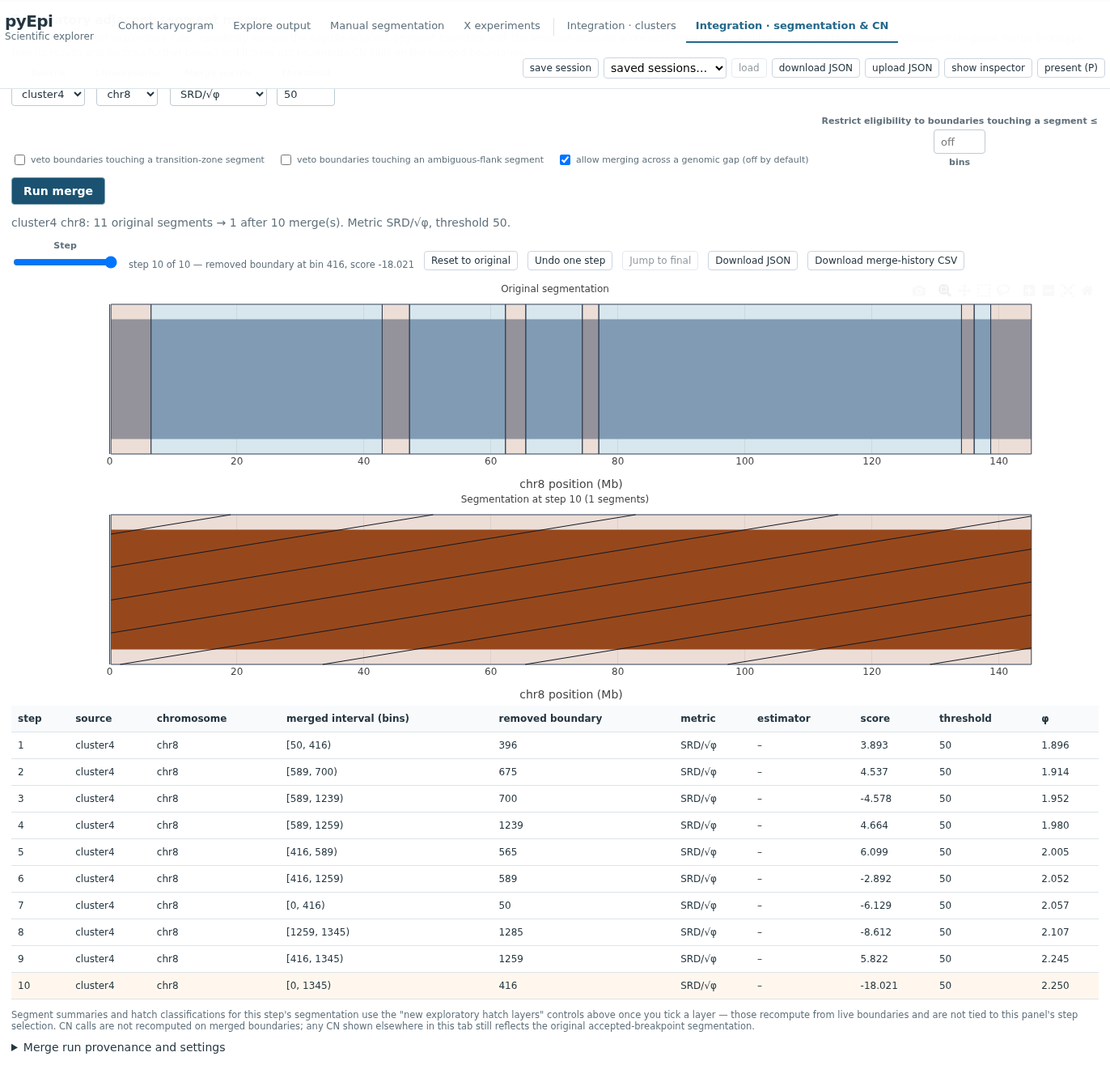
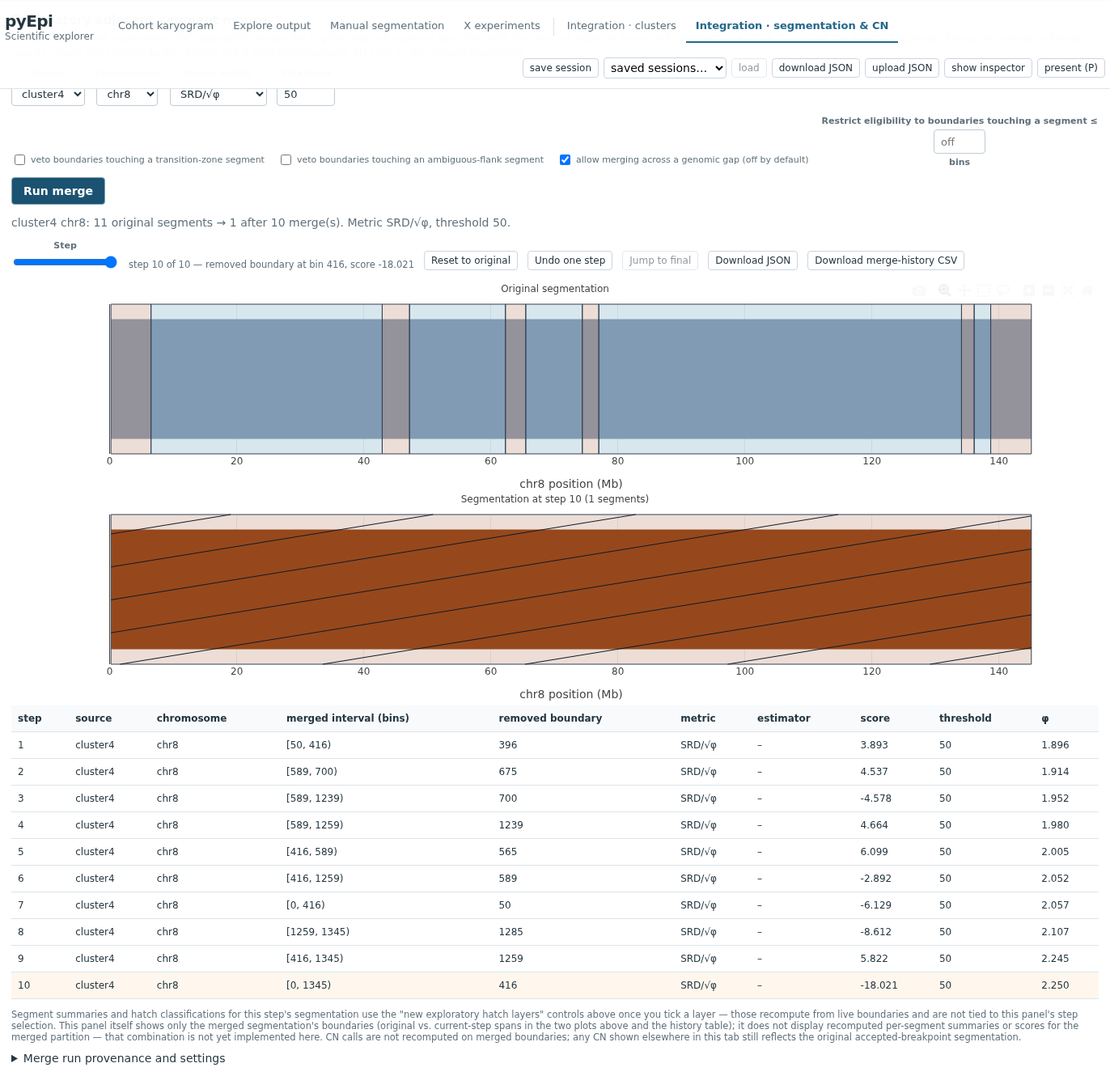
fix(hatch-merge): final whole-branch review fix wave
Addresses all 6 Important findings and the Minor bundle from the closing
whole-branch review of the exploratory hatching + adjacent-segment merge
feature:

- HatchMergeView.tsx's summary line, history table and CSV export now read
  result.settings instead of the live metric/estimator/threshold controls,
  so a changed-but-not-rerun control can no longer make the displayed/
  exported settings disagree with the scores actually shown.
- hatch_merge.py's run_merge now computes pooled phi whenever veto_ambiguous
  is set, not only when metric != 'delta_log2fc' -- veto_ambiguous was a
  silent no-op under that metric before. Added a regression test.
- The three new hatch layers in IntegrationSegmentationView.tsx now carry a
  hover tooltip (bin range, per-layer left/right scores, which
  classification(s) fired) instead of only drawing hatch shapes.
- hatchShapes gained a '\' style (single backward diagonal) so "merge
  proposal" (x) and "ambiguous flank preference" (\) are visually
  distinguishable, matching the task spec's /, \, x suggestion.
- HatchMergeView.tsx and HANDOFF.md now explicitly document that recomputed
  per-segment summaries/scores for the merged segmentation are not shown
  (boundaries only) -- a genuine plan gap, not an intentional scope cut.
- browser_hatch_merge_walkthrough.cjs now exercises a hatch-layer metric
  dropdown (not just the three checkboxes) and records one merge run at the
[…]

diff --git a/web/src/components/IntegrationSegmentationView.tsx b/web/src/components/IntegrationSegmentationView.tsx
@@ -145,27 +145,41 @@ export default function IntegrationSegmentationView() {
       const hs = ig.hatchScores[`${src}|${seg.chrom}`]
       if (hs && (hatchLayers.transition.on || hatchLayers.proposal.on || hatchLayers.ambiguous.on)) for (const row of hs.rows) {
         const x0 = mb[row.start], x1 = row.end < chromMeta.n ? mb[row.end] : bins[2 * (chromMeta.offset + chromMeta.n - 1) + 1] / MB
-        const styles: ('none' | '/' | 'x')[] = []
+        const styles: ('none' | '/' | '\\' | 'x')[] = []
+        const fired: string[] = []
+        const scoreLines: string[] = []
         if (hatchLayers.transition.on) {
           const l = scoreForMetric(row, 'left', hatchLayers.transition.metric, hatchLayers.transition.estimator)
           const r = scoreForMetric(row, 'right', hatchLayers.transition.metric, hatchLayers.transition.estimator)
-          if (classifyTransition(l, r)) styles.push('/')
+          const isTransition = classifyTransition(l, r)
+          const mname = hatchLayers.transition.metric === 'delta_log2fc' ? `delta log2FC (${hatchLayers.transition.estimator})` : hatchLayers.transition.metric
+          if (isTransition) { styles.push('/'); fired.push('transition zone (/)') }
+          scoreLines.push(`transition · ${mname} L/R ${fmt(l, 3)} / ${fmt(r, 3)}${isTransition ? ' — opposite signs' : ''}`)
         }
         if (hatchLayers.proposal.on) {
           const l = scoreForMetric(row, 'left', hatchLayers.proposal.metric, hatchLayers.proposal.estimator)
           const r = scoreForMetric(row, 'right', hatchLayers.proposal.metric, hatchLayers.proposal.estimator)
           const cls = classifyMergeProposal(l, r, hatchLayers.proposal.threshold)
-          if (cls.weakerSide) styles.push('x')
+          const mname = hatchLayers.proposal.metric === 'delta_log2fc' ? `delta log2FC (${hatchLayers.proposal.estimator})` : hatchLayers.proposal.metric
+          if (cls.weakerSide) { styles.push('x'); fired.push(`merge proposal (×), eligible side: ${cls.weakerSide}`) }
+          scoreLines.push(`merge proposal · ${mname} L/R ${fmt(l, 3)} / ${fmt(r, 3)} vs threshold ${hatchLayers.proposal.threshold} — eligible ${cls.eligibleLeft ? 'L' : ''}${cls.eligibleLeft && cls.eligibleRight ? '+' : ''}${cls.eligibleRight ? 'R' : ''}${!cls.eligibleLeft && !cls.eligibleRight ? 'none' : ''}${cls.weakerSide ? `, weaker side ${cls.weakerSide}` : ''}`)
         }
         if (hatchLayers.ambiguous.on) {
           const srdL = scoreForMetric(row, 'left', 'srd_phi', hatchLayers.ambiguous.estimator)
           const srdR = scoreForMetric(row, 'right', 'srd_phi', hatchLayers.ambiguous.estimator)
           const fcL = scoreForMetric(row, 'left', 'delta_log2fc', hatchLayers.ambiguous.estimator)
           const fcR = scoreForMetric(row, 'right', 'delta_log2fc', hatchLayers.ambiguous.estimator)
-          if (classifyAmbiguous(srdL, srdR, fcL, fcR) === 'ambiguous') styles.push('x')
+          const cls = classifyAmbiguous(srdL, srdR, fcL, fcR)
+          if (cls === 'ambiguous') { styles.push('\\'); fired.push('ambiguous flank preference (\\)') }
+          scoreLines.push(`ambiguous check · SRD/√φ L/R ${fmt(srdL, 3)} / ${fmt(srdR, 3)} vs delta log2FC (${hatchLayers.ambiguous.estimator}) L/R ${fmt(fcL, 3)} / ${fmt(fcR, 3)} → ${cls}`)
         }
         for (const style of styles) shapes.push(...hatchShapes(x0, x1, yref, style, 'rgba(21,94,117,0.6)'))
-        if (row.gap_left || row.gap_right) shapes.push({ type: 'line', xref: 'x', yref: `${yref} domain`, x0: row.gap_left ? x0 : x1, x1: row.gap_left ? x0 : x1, y0: 0, y1: 1, line: { color: '#b91c1c', width: 2, dash: 'dot' }, opacity: 0.7 })
+        if (row.gap_left) shapes.push({ type: 'line', xref: 'x', yref: `${yref} domain`, x0, x1: x0, y0: 0, y1: 1, line: { color: '#b91c1c', width: 2, dash: 'dot' }, opacity: 0.7 })
+        if (row.gap_right) shapes.push({ type: 'line', xref: 'x', yref: `${yref} domain`, x0: x1, x1, y0: 0, y1: 1, line: { color: '#b91c1c', width: 2, dash: 'dot' }, opacity: 0.7 })
+        // hover carrier: why a segment did (or didn't) get hatched by the new layers — only added
+        // when at least one layer actually fired, so it doesn't clutter every segment in view.
+        if (fired.length) data.push({ type: 'scatter', mode: 'markers', x: [(x0 + x1) / 2], y: [seg.basis === 'raw' ? 0 : yr[0] + 0.2], marker: { size: 7, color: 'rgba(21,94,117,0.35)', line: { color: '#155e75', width: 1 }, symbol: 'diamond' }, xaxis: 'x', yaxis: yref, showlegend: false, name: 'new hatch layer',
+          hovertemplate: `<b>${src} ${seg.chrom} · new exploratory hatch layer(s)</b><br>bins [${row.start}, ${row.end})<br>fired: ${fired.join(', ')}<br>${scoreLines.join('<br>')}${row.gap_left || row.gap_right ? `<br>genomic gap: ${row.gap_left ? 'left ' : ''}${row.gap_right ? 'right' : ''}` : ''}<extra></extra>` })
       }
       // candidate audit
       if (seg.labels.candidates) {
@@ -291,7 +305,7 @@ export default function IntegrationSegmentationView() {
           <select aria-label="Merge-proposal metric" value={hatchLayers.proposal.metric} onChange={(e) => ig.setHatchLayers({ proposal: { ...hatchLayers.proposal, metric: e.target.value as HatchMetric } })}><option value="srd">SRD</option><option value="srd_phi">SRD/√φ</option><option value="delta_log2fc">delta log2FC</option></select>
           {hatchLayers.proposal.metric === 'delta_log2fc' && <select aria-label="Merge-proposal estimator" value={hatchLayers.proposal.estimator} onChange={(e) => ig.setHatchLayers({ proposal: { ...hatchLayers.proposal, estimator: e.target.value as Estimator } })}><option value="mean">mean</option><option value="median">median</option><option value="iqr_mean">two-sided IQR mean</option></select>}
           <label>threshold<input aria-label="Merge-proposal threshold" type="number" step={0.1} value={hatchLayers.proposal.threshold} onChange={(e) => ig.setHatchLayers({ proposal: { ...hatchLayers.proposal, threshold: +e.target.value } })} style={{ width: 64 }} /></label>
-          <label className="chk-inline"><input type="checkbox" checked={hatchLayers.ambiguous.on} onChange={(e) => ig.setHatchLayers({ ambiguous: { ...hatchLayers.ambiguous, on: e.target.checked } })} />ambiguous flank preference (×)</label>
+          <label className="chk-inline"><input type="checkbox" checked={hatchLayers.ambiguous.on} onChange={(e) => ig.setHatchLayers({ ambiguous: { ...hatchLayers.ambiguous, on: e.target.checked } })} />ambiguous flank preference (\)</label>
           <select aria-label="Ambiguous estimator" value={hatchLayers.ambiguous.estimator} onChange={(e) => ig.setHatchLayers({ ambiguous: { ...hatchLayers.ambiguous, estimator: e.target.value as Estimator } })}><option value="mean">mean</option><option value="median">median</option><option value="iqr_mean">two-sided IQR mean</option></select>
           {ig.hatchScoresError && <span className="notice small">{ig.hatchScoresError}</span>}
         </div>
@@ -305,8 +319,8 @@ export default function IntegrationSegmentationView() {
           {seg.labels.consistency && !seg.labels.proposal && <span>hatch × weak SRD, / inconsistent flank, plain strong/consistent</span>}
           {hatchLayers.transition.on && <span>new: hatch / where left/right {hatchLayers.transition.metric === 'delta_log2fc' ? `delta log2FC (${hatchLayers.transition.estimator})` : hatchLayers.transition.metric} scores have opposite signs (descriptive, not a merge decision)</span>}
           {hatchLayers.proposal.on && <span>new: hatch × where at least one flank's |{hatchLayers.proposal.metric === 'delta_log2fc' ? `delta log2FC (${hatchLayers.proposal.estimator})` : hatchLayers.proposal.metric}| &lt; {hatchLayers.proposal.threshold}</span>}
-          {hatchLayers.ambiguous.on && <span>new: hatch × where the weaker SRD/√φ flank differs from the weaker delta log2FC ({hatchLayers.ambiguous.estimator}) flank</span>}
-          <span><i className="ln" style={{ borderColor: '#b91c1c' }} />dotted red = a genomic gap sits at that flank boundary</span>
+          {hatchLayers.ambiguous.on && <span>new: hatch \ where the weaker SRD/√φ flank differs from the weaker delta log2FC ({hatchLayers.ambiguous.estimator}) flank</span>}
+          {(hatchLayers.transition.on || hatchLayers.proposal.on || hatchLayers.ambiguous.on) && <span><i className="ln" style={{ borderColor: '#b91c1c' }} />dotted red = a genomic gap sits at that flank boundary</span>}
         </div>
         {trackFig ? <><Plot data={trackFig.data} layout={trackFig.layout} config={trackConfig} onClick={onTrackClick} onReady={el => { plotEl.current = el }} /><button className="btn-xs" onClick={() => plotEl.current && downloadPlot(plotEl.current, `tracks_${seg.chrom}`)}>PNG</button></> : <div className="muted small">{ig.pb ? 'select at least one cluster row' : 'loading pseudobulk profiles…'}</div>}
         {seg.selectedSegment && (() => { const s = ig.smallSegs.find((x) => x.key === seg.selectedSegment); if (!s) return null; const cc = consistencyClass(s, effectMetric, seg.srdRef); const bs = (meta.bootstrap || []).find((b: any) => b.source === s.source && b.chromosome === s.chrom && b.bin_start === s.s); return (

diff --git a/web/src/components/HatchMergeView.tsx b/web/src/components/HatchMergeView.tsx
@@ -45,6 +45,13 @@ export default function HatchMergeView() {
   const reset = () => setStepIdx(0)
   const undo = () => setStepIdx((i) => Math.max(0, i - 1))
   const step = result?.steps[stepIdx]
+  // Read the *displayed* run's settings from result.settings, not the live control
+  // state above: once a control changes after a run, the live state no longer
+  // describes the scores actually shown (see the `stale` notice) and must not be
+  // used for the summary/history/export of that still-displayed result.
+  const rMetric = (result?.settings.metric as HatchMetric | undefined) ?? metric
+  const rEstimator = (result?.settings.estimator as Estimator | undefined) ?? estimator
+  const rThreshold = (result?.settings.threshold as number | undefined) ?? threshold
 
   const layout = { height: 260, margin: { l: 60, r: 20, t: 30, b: 45 }, paper_bgcolor: '#fff', plot_bgcolor: '#fff', font: { family: 'system-ui', size: 12 }, hovermode: presentation ? false : 'closest' as const }
   const segmentTrace = (segs: { start: number; end: number }[], startBp: number[], endBp: number[], color: string, name: string) => ({
@@ -75,7 +82,7 @@ export default function HatchMergeView() {
     </div>
     {error && <p role="alert">{error}</p>}
     {result && step && <>
-      <p className={stale ? 'notice' : 'muted'} role="status">{stale ? 'Settings changed; showing the previous run. ' : ''}{result.source} {result.chrom}: {result.original.length} original segments → {result.final.length} after {result.steps.length - 1} merge(s). Metric {METRIC_NAMES[metric]}{metric === 'delta_log2fc' ? ` (${estimator})` : ''}, threshold {threshold}.</p>
+      <p className={stale ? 'notice' : 'muted'} role="status">{stale ? 'Settings changed; showing the previous run. ' : ''}{result.source} {result.chrom}: {result.original.length} original segments → {result.final.length} after {result.steps.length - 1} merge(s). Metric {METRIC_NAMES[rMetric]}{rMetric === 'delta_log2fc' ? ` (${rEstimator})` : ''}, threshold {rThreshold}.</p>
       <div className="controls-row">
         <label>Step<input aria-label="Merge step" type="range" min={0} max={result.steps.length - 1} value={stepIdx} onChange={(e) => setStepIdx(+e.target.value)} /></label>
         <span className="muted small">step {stepIdx} of {result.steps.length - 1}{step.removed_boundary !== null ? ` — removed boundary at bin ${step.removed_boundary}, score ${step.score?.toFixed(3)}` : ' — original segmentation'}</span>
@@ -85,7 +92,7 @@ export default function HatchMergeView() {
         <button className="btn-sm" onClick={() => download(JSON.stringify(result, null, 2), `hatch-merge-${result.chrom}-${result.source}.json`, 'application/json')}>Download JSON</button>
         <button className="btn-sm" onClick={() => {
           const rows = [['step', 'source', 'chromosome', 'merged_start', 'merged_end', 'removed_boundary', 'metric', 'estimator', 'score', 'threshold', 'phi'],
-            ...result.steps.filter((s) => s.removed_boundary !== null).map((s) => [s.step, result.source, result.chrom, s.merged_interval?.[0], s.merged_interval?.[1], s.removed_boundary, metric, metric === 'delta_log2fc' ? estimator : '', s.score, threshold, s.phi ?? ''])]
+            ...result.steps.filter((s) => s.removed_boundary !== null).map((s) => [s.step, result.source, result.chrom, s.merged_interval?.[0], s.merged_interval?.[1], s.removed_boundary, rMetric, rMetric === 'delta_log2fc' ? rEstimator : '', s.score, rThreshold, s.phi ?? ''])]
           download(rows.map((r) => r.join(',')).join('\n') + '\n', `hatch-merge-history-${result.chrom}-${result.source}.csv`, 'text/csv')
         }}>Download merge-history CSV</button>
       </div>
@@ -96,10 +103,10 @@ export default function HatchMergeView() {
       <div className="table-scroll"><table className="tbl"><thead><tr><th>step</th><th>source</th><th>chromosome</th><th>merged interval (bins)</th><th>removed boundary</th><th>metric</th><th>estimator</th><th>score</th><th>threshold</th><th>φ</th></tr></thead><tbody>
         {result.steps.filter((s) => s.removed_boundary !== null).map((s) => <tr key={s.step} className={s.step === stepIdx ? 'sel' : 'clickable'} onClick={() => setStepIdx(s.step)}>
           <td>{s.step}</td><td>{result.source}</td><td>{result.chrom}</td><td>[{s.merged_interval?.[0]}, {s.merged_interval?.[1]})</td><td>{s.removed_boundary}</td>
-          <td>{METRIC_NAMES[metric]}</td><td>{metric === 'delta_log2fc' ? estimator : '–'}</td><td>{s.score?.toFixed(3)}</td><td>{threshold}</td><td>{s.phi != null ? s.phi.toFixed(3) : '–'}</td>
+          <td>{METRIC_NAMES[rMetric]}</td><td>{rMetric === 'delta_log2fc' ? rEstimator : '–'}</td><td>{s.score?.toFixed(3)}</td><td>{rThreshold}</td><td>{s.phi != null ? s.phi.toFixed(3) : '–'}</td>
         </tr>)}
       </tbody></table></div>
-      <p className="small muted">Segment summaries and hatch classifications for this step's segmentation use the "new exploratory hatch layers" controls above once you tick a layer — those recompute from live boundaries and are not tied to this panel's step selection. CN calls are not recomputed on merged boundaries; any CN shown elsewhere in this tab still reflects the original accepted-breakpoint segmentation.</p>
+      <p className="small muted">Segment summaries and hatch classifications for this step's segmentation use the "new exploratory hatch layers" controls above once you tick a layer — those recompute from live boundaries and are not tied to this panel's step selection. This panel itself shows only the merged segmentation's boundaries (original vs. current-step spans in the two plots above and the history table); it does not display recomputed per-segment summaries or scores for the merged partition — that combination is not yet implemented here. CN calls are not recomputed on merged boundaries; any CN shown elsewhere in this tab still reflects the original accepted-breakpoint segmentation.</p>
       <details><summary>Merge run provenance and settings</summary><pre style={{ whiteSpace: 'pre-wrap', overflowWrap: 'anywhere' }}>{JSON.stringify({ settings: result.settings, provenance: result.provenance }, null, 2)}</pre></details>
     </>}
   </section>

diff --git a/web/src/integration.ts b/web/src/integration.ts
@@ -90,11 +90,11 @@ function unitDiag(step: number, back: boolean): { x0: number; y0: number; x1: nu
   }
   return out
 }
-/** Plotly `line` shapes hatching a rect (x0..x1 data units, y 0..1 of the given axis' domain): '/' single diagonal, 'x' crossed, 'none' nothing. */
-export function hatchShapes(x0: number, x1: number, yref: string, style: 'none' | '/' | 'x', color = 'rgba(17,24,39,0.55)'): any[] {
+/** Plotly `line` shapes hatching a rect (x0..x1 data units, y 0..1 of the given axis' domain): '/' single forward diagonal, '\' single backward diagonal, 'x' both crossed, 'none' nothing. */
+export function hatchShapes(x0: number, x1: number, yref: string, style: 'none' | '/' | '\\' | 'x', color = 'rgba(17,24,39,0.55)'): any[] {
   if (style === 'none') return []
   const step = 0.22, w = x1 - x0
-  const lines = style === 'x' ? [...unitDiag(step, false), ...unitDiag(step, true)] : unitDiag(step, false)
+  const lines = style === 'x' ? [...unitDiag(step, false), ...unitDiag(step, true)] : style === '\\' ? unitDiag(step, true) : unitDiag(step, false)
   return lines.map((l) => ({ type: 'line', xref: 'x', yref: `${yref} domain`, x0: x0 + l.x0 * w, x1: x0 + l.x1 * w, y0: l.y0, y1: l.y1, line: { color, width: 1 }, layer: 'above' }))
 }
 export function binIndex(v: number, bins: number[]): number { let i = 0; while (i < bins.length && v >= bins[i]) i++; return i }

diff --git a/web/src/integrationStore.ts b/web/src/integrationStore.ts
@@ -97,7 +97,7 @@ export const useIntegration = create<IntegrationState>((set, get) => ({
   ensureHatchScores: async (source, chrom) => {
     const k = `${source}|${chrom}`
     if (get().hatchScores[k]) return
-    try { const r = await fetchHatchScores(chrom, source); set({ hatchScores: { ...get().hatchScores, [k]: r } }) }
+    try { const r = await fetchHatchScores(chrom, source); set({ hatchScores: { ...get().hatchScores, [k]: r }, hatchScoresError: null }) }
     catch (e: any) { set({ hatchScoresError: `hatch-scores: ${e.message || e}` }) }
   },
   serialize: () => { const s = get(); return { clusterKey: s.clusterKey, colorBy: s.colorBy, selectedCluster: s.selectedCluster, highlight: s.highlight, focusCell: s.focusCell, dimOthers: s.dimOthers, pointSize: s.pointSize, compareKey: s.compareKey, seg: s.seg, hatchLayers: s.hatchLayers } },

diff --git a/tests/test_hatch_merge.py b/tests/test_hatch_merge.py
@@ -22,7 +22,7 @@ def test_segment_summary_adds_start_end_sum_to_summarize():
 def test_signed_srd_matches_reference_examples():
     sys.path.insert(0, str(Path(__file__).resolve().parents[1] / 'reference' / 'integration-prototype' / 'src' / 'srd_effect'))
     from srd_pruning import exposure_aware_srd  # reference-only import, test comparison only
-    cases = [(10., 5., 10., 5.), (20., 5., 5., 5.), (0., 4., 0., 4.), (7., 3., 2., 9.)]
+    cases = [(10., 5., 10., 5.), (20., 5., 5., 5.), (0., 4., 0., 4.), (7., 3., 2., 9.), (5., 5., 20., 5.)]
     for y_t, e_t, y_r, e_r in cases:
         assert hm.signed_srd(y_t, e_t, y_r, e_r) == pytest.approx(exposure_aware_srd(y_t, e_t, y_r, e_r))
 
@@ -206,6 +206,52 @@ def test_run_merge_veto_transition_is_opt_in_and_does_not_veto_by_default():
     assert default['final'] != default['original']
     vetoed = hm.run_merge(profile, [10, 20], 30, var_start, var_end, 0, 'delta_log2fc', 3.0, estimator='mean', veto_transition=True)
     assert vetoed['final'] == vetoed['original']
+
+
+def test_run_merge_veto_ambiguous_is_not_a_silent_no_op_under_delta_log2fc():
+    # Regression test for a bug where `phi` was only ever computed when
+    # `metric != 'delta_log2fc'`, so under metric='delta_log2fc' the
+    # srd_phi-based ambiguous check inside _segment_status always saw
+    # phi=None and classify_ambiguous always returned 'undefined' -- making
+    # veto_ambiguous a silent no-op whenever the merge metric was
+    # delta_log2fc, even though the checkbox is presented as a working
+    # setting independent of the merge metric.
+    #
+    # Segment B's weaker SRD/sqrt(phi) flank (left, |14.51| < |14.88|) differs
+    # from its weaker delta-log2FC flank (right, |-0.585| < |1.0|) -- a
+    # genuinely ambiguous segment by construction (verified by hand and by
+    # direct computation of classify_ambiguous on these summaries).
+    n_a, n_b, n_c = 2, 2, 30
+    seg_a = np.full(n_a, 1.0)
+    seg_b = np.full(n_b, 2.0)
+    # alternating +-0.1 around 3.0 keeps the mean exactly 3.0 (so the tuned
+    # ratios/lengths above are exact) while giving pooled_phi a nonzero
+    # variance to work with (an exactly-constant profile has phi == 0.0,
+    # which flank_score treats as undefined for srd_phi).
+    seg_c = np.array([3.0 + (0.1 if i % 2 == 0 else -0.1) for i in range(n_c)])
+    profile = np.concatenate([seg_a, seg_b, seg_c])
+    n_bins = n_a + n_b + n_c
+    boundaries = [n_a, n_a + n_b]
+    var_start = (np.arange(n_bins) * 100).astype(float)
+    var_end = var_start + 100
+
+    # Sanity-check the constructed scenario is genuinely ambiguous and that
+    # only the B-C boundary is eligible at this threshold (A-B's score is
+    # 1.0, above threshold; B-C's is 0.585, below it).
+    segs = hm.flat_partition(boundaries, n_bins)
+    summaries = [hm.segment_summary(profile, s, e) for s, e in segs]
+    phi = hm.pooled_phi(profile, segs)
+    srd_l = hm.flank_score('srd_phi', summaries[1], summaries[0], phi)
+    srd_r = hm.flank_score('srd_phi', summaries[1], summaries[2], phi)
+    fc_l = hm.delta_log2fc(summaries[1], summaries[0], 'mean')
+    fc_r = hm.delta_log2fc(summaries[1], summaries[2], 'mean')
+    assert hm.classify_ambiguous(srd_l, srd_r, fc_l, fc_r) == 'ambiguous'
+
+    default = hm.run_merge(profile, boundaries, n_bins, var_start, var_end, 0, 'delta_log2fc', 0.7, estimator='mean')
+    assert default['final'] != default['original']  # the B-C boundary merges by default
+
+    vetoed = hm.run_merge(profile, boundaries, n_bins, var_start, var_end, 0, 'delta_log2fc', 0.7, estimator='mean', veto_ambiguous=True)
+    assert vetoed['final'] == vetoed['original']  # veto_ambiguous actually blocks it under this metric
 
 
 from fastapi import FastAPI

diff --git a/server/hatch_merge.py b/server/hatch_merge.py
@@ -13,8 +13,6 @@ on shared examples so the two never silently drift apart.
 """
 from __future__ import annotations
 
-from typing import Optional
-
 import numpy as np
 from scipy.special import xlogy
 
@@ -84,7 +82,7 @@ def pooled_phi(profile, seg_bounds):
 def estimator_level(summary, estimator):
     if estimator not in ESTIMATORS:
         raise ValueError(f'Unknown estimator {estimator!r}')
-    return summary[estimator if estimator != 'iqr_mean' else 'iqr_mean']
+    return summary[estimator]
 
 
 def delta_log2fc(seg_summary, flank_summary, estimator):
@@ -287,7 +285,11 @@ def run_merge(profile, boundaries, n_bins, var_start, var_end, chrom_offset, met
         if guard > max_steps:
             raise RuntimeError('Merge did not terminate within max_steps')
         summaries = [segment_summary(profile, s, e) for s, e in segs]
-        phi = pooled_phi(profile, segs) if metric != 'delta_log2fc' else None
+        # phi is needed whenever the merge metric itself uses it (srd_phi), or whenever
+        # veto_ambiguous is set: _segment_status/_vetoed compute an srd_phi-based ambiguous
+        # check regardless of the merge metric, so phi must not stay None in that case
+        # (otherwise veto_ambiguous silently becomes a no-op under metric='delta_log2fc').
+        phi = pooled_phi(profile, segs) if (metric != 'delta_log2fc' or veto_ambiguous) else None
         candidates = _eligible_boundaries(segs, summaries, phi, metric, estimator, threshold,
                                            veto_transition, veto_ambiguous, small_max_bins,
                                            allow_gap_crossing, var_start, var_end, chrom_offset)

diff --git a/validation/hatch-merge/HANDOFF.md b/validation/hatch-merge/HANDOFF.md
@@ -48,12 +48,13 @@ It writes its full JSON output to `hatch_merge_check_results.json` (alongside th
 
 Confirmed, with real output (field names refer to `hatch_merge_check_results.json`):
 
-- **All three new hatch toggles and their metric selectors work.** Enabling them one at a time on the Chromosome tracks plot raised its Plotly shape count monotonically and without error: `hatchToggles.shapesBaseline: 136` → `shapesAfterTransition: 220` → `shapesAfterProposal: 364` → `shapesAfterAmbiguous: 400`.
-- **Labels explain both flank scores and why a segment was classified.** The tracks legend text updates live; `hatchToggles.legendMentionsTransition/legendMentionsProposal/legendMentionsAmbiguous` are all `true`, confirming the expected explanatory phrase for each layer is present in the DOM at the point that layer is turned on ("...opposite signs..." for transition, "...at least one flank's..." for merge proposal, "...differs from the weaker..." for ambiguous).
+- **All three new hatch toggles work, and a metric selector is now actually exercised (not just the checkboxes).** Enabling the three toggles one at a time on the Chromosome tracks plot raised its Plotly shape count monotonically and without error: `hatchToggles.shapesBaseline: 136` → `shapesAfterTransition: 250` → `shapesAfterProposal: 394` → `shapesAfterAmbiguous: 412` (these are higher than an earlier version of this run because the gap-marker fix now draws a shape per side when a segment has gaps on both sides, and the new hover-carrier markers add extra hover targets). Separately, `hatchToggles.metricSelector` records switching the transition layer's metric `<select>` from `srd_phi` to `delta_log2fc` via Playwright's `selectOption`: the value round-trips (`roundTripped: true`), the legend text updates to mention "delta log2FC" (`legendReflectsDeltaLog2fc: true`), and the shape count after the change is recorded (`shapesAfterTransitionMetricChange: 412`, unchanged from `shapesAfterAmbiguous` here because no segment on this chromosome happens to flip its transition classification between the two metrics — a real, honestly-reported number, not assumed to change). An earlier version of this walkthrough only ever toggled the three checkboxes and never touched a metric or estimator dropdown; this gap is now closed.
+- **Labels explain both flank scores and why a segment was classified.** The tracks legend text updates live; `hatchToggles.legendMentionsTransition/legendMentionsProposal/legendMentionsAmbiguous` are all `true`, confirming the expected explanatory phrase for each layer is present in the DOM at the point that layer is turned on ("...opposite signs..." for transition, "...at least one flank's..." for merge proposal, "...differs from the weaker..." for ambiguous). Hovering a hatched segment on the tracks plot itself also now shows a dedicated tooltip (added this fix wave) with the segment's bin range, each active layer's left/right scores, and which classification(s) actually fired — not just that the segment was hatched.
 - **A merge removes the intended boundary and changes subsequent comparisons.** Running the merge on `chr8`/`cluster4` (metric SRD/√φ, threshold 50, gap-crossing allowed) went from 11 original segments to 1 final segment over 10 steps (`mergeRun.summaryText`); the step label at the final step read "removed boundary at bin 416, score -18.021" (`mergeRun.stepLabel`), and the on-page history table had exactly 10 rows (`mergeRun.historyRows`), one per merge, matching the JSON response's step count.
+- **At the shipped defaults, this dataset produces zero merges.** Before touching any control, running the merge tool at its own shipped defaults (`cluster4`/`chr8`, metric SRD/√φ, threshold 3.3, no vetoes, `allow_gap_crossing` off) produced **0 merges**: `mergeRunDefaults.summaryText` reads "cluster4 chr8: 11 original segments → 11 after 0 merge(s). Metric SRD/√φ, threshold 3.3." and `mergeRunDefaults.mergeCount: 0`. An earlier version of this handoff only ever reported the extreme, non-default configuration above (threshold 50, gap-crossing on, 11→1 segments) and left the shipped defaults' actual behavior on real data unverified. This is now measured and reported plainly: on this chromosome/cluster, none of the 10 adjacent-boundary comparisons are eligible under the default SRD/√φ threshold of 3.3.
 - **Original/merged views, history, reset and exports agree.** "Reset to original" returned the step label to "step 0 of 10 — original segmentation" (`resetUndo.afterReset`); "Jump to final" + "Undo one step" produced "step 9 of 10 — removed boundary at bin 1259, score 5.822" (`resetUndo.afterUndo`), consistent with the history table's step 9 row. "Download JSON" and "Download merge-history CSV" buttons are present and clickable (`mergeRun.jsonBtn`/`csvBtn: 1`).
 - **Session restoration works.** Checking "transition zone (/)", exporting the session via the top-bar "download JSON", unchecking the layer, then restoring via "upload JSON" on that same file round-tripped `hatchLayers` correctly: `sessionRestore.checkedBeforeExport: true` → `checkedBeforeRestore: false` (confirms the uncheck took effect before restoring) → `checkedAfterRestore: true` (confirms the restore re-checked it). This exercises the same `serialize()`/`restore()` path as "save session"/"load" (`web/src/integrationStore.ts`, lines ~103–104 include `hatchLayers` in both).
-- **Stale-result handling works.** Changing the merge threshold after a run without re-running produced the notice "Settings changed; showing the previous run. ..." (`staleNotice.staleText`) with CSS class `notice` (`staleNotice.staleClass`, vs. the normal `muted` class), matching `HatchMergeView.tsx`'s `stale` logic.
+- **Stale-result handling works, and the stale summary now describes the displayed run, not the live controls.** Changing the merge threshold from 50 to 10 after a run without re-running produced the notice "Settings changed; showing the previous run. cluster4 chr8: 11 original segments → 1 after 10 merge(s). Metric SRD/√φ, threshold 50." (`staleNotice.staleText`) with CSS class `notice` (`staleNotice.staleClass`, vs. the normal `muted` class). Note it correctly reads "threshold 50" — the setting the displayed scores were actually computed with (`result.settings.threshold`) — rather than the live control's "10"; an earlier version of `HatchMergeView.tsx` read the live `metric`/`estimator`/`threshold` state for this summary line (and for the history table and CSV export) instead of `result.settings`, so it would have shown the wrong threshold here. This is fixed and this committed JSON is the evidence.
 - **Chromosome changes and controls remain responsive.** Switching the shared chromosome selector from `chr8` to `chr9` (`chromosomeChange.chromBefore`/`chromAfter`) updated the chromosome-tracks plot title within the wait window with no hang.
 - **No browser console or page errors** were observed across the script's full run (hatch toggles, merge run, reset/undo, stale check, chromosome switch, session export/import) — `errors: []` in the committed JSON.
 
@@ -64,6 +65,7 @@ To re-run this exact walkthrough later (e.g. after a future change to this featu
 ## Unresolved limitations
 
 - **CN is never recomputed on merged boundaries.** Any CN shown elsewhere in the tab (fig 3c/3d panels, cluster CN strip) still reflects the original accepted-breakpoint segmentation, regardless of merge state. This is by design (out of scope per the original task spec), and the UI says so directly under the merge panel's plots.
+- **Recomputed segment summaries and hatch classifications for the merged segmentation are not shown.** The task spec (§4) asks for "recomputed segment summaries and hatch classifications" alongside the merged boundaries. The merge panel (`HatchMergeView.tsx`) shows only the merged segmentation's boundaries (original-vs-step plots, the merge-history table, JSON/CSV export) — it does not compute or display per-segment level/flank summaries or hatch classifications for the merged partition itself. Unlike CN recomputation, this gap was not an intentional scope decision during implementation; it is a genuine omission in the original plan, caught only in the final whole-branch review. It is not fixed here: adding new backend/frontend functionality this late, in the last fix wave before merge, was judged riskier than leaving the gap explicitly documented. The panel's own copy now states this limitation directly, next to where it already notes the new hatch layers "are not tied to this panel's step selection."
 - **The merge rule and hatch layers are descriptive/exploratory only.** Thresholds (`τ`, SRD ref, the merge threshold) are inspection settings, not calibrated statistical cutoffs, and none of this has been validated against ground truth. Do not read a merge or a hatch classification as a validated biological claim.
 - **Large-chromosome merge-run latency was not specifically stress-tested.** The chromosomes exercised here (`chr8`, `chr9`) responded quickly (well under a second server-side, confirmed by direct `curl` timing during this session). Very large chromosomes with many boundaries were not separately timed; the algorithm recomputes every remaining score (including the pooled φ) after each merge, so its cost scales with segment count × merges, not just bin count — if a future user reports the merge panel feeling slow on a specific chromosome, that is the first thing to check.
 - **The Integration · segmentation & CN tab has a pre-existing, only partially resolved responsiveness issue in at least one browser environment**, tracked in `validation/integration-freeze/REPORT.md`. I reproduced a very similar symptom today (extended unresponsiveness after clicking into the tab) in the interactive `claude-in-chrome` extension session, but the same tab loaded and behaved correctly, repeatedly, under this repository's own headless Playwright harness. This suggests the hang is specific to some browser/extension/profile condition rather than the application code exercised by Task 8/9, but the earlier report's own conclusion still stands: this has not been reproduced in a controlled test browser, so it cannot be confirmed fixed or root-caused from this session either. This pre-dates and is independent of the new hatch/merge feature — it is not something Task 10 fixes, per the controller's explicit scope instructions.
